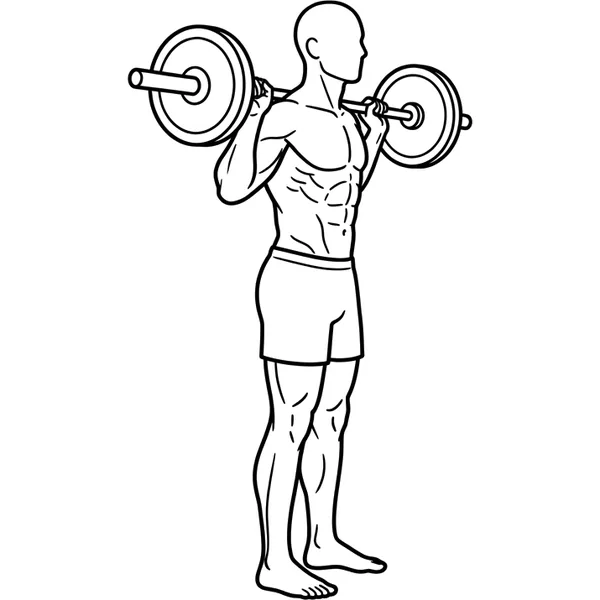
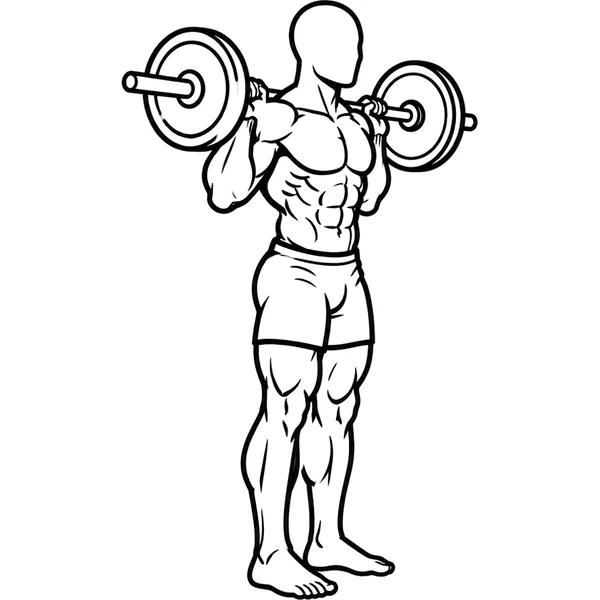
0.60.11: ocho dibujos mas con mas musculo, hechos con ChatGPT al llegar Gemini a su tope

Changed region(s): [[0.18, 0.0, 0.81, 1.0]]

diff --git a/web/sw.js b/web/sw.js
@@ -7,12 +7,12 @@
 // Solo se ocupa del CÓDIGO de la app. Los datos del usuario nunca pasan por
 // aquí: viven en el dispositivo (IndexedDB) y en su Google Drive.
 
-const VERSION = '0.60.10';
+const VERSION = '0.60.11';
 const CACHE = `entreno-${VERSION}`;
 // Las imágenes van en un almacén aparte que NO se borra al actualizar la app:
 // así se ven sin conexión aunque haya salido una versión nueva.
 // Si cambian las imágenes, se sube el número y los móviles bajan las nuevas.
-const CACHE_IMAGENES = 'entreno-imagenes-20';  // el mismo nombre en app.js (guardarImagenesParaSinConexion)
+const CACHE_IMAGENES = 'entreno-imagenes-21';  // el mismo nombre en app.js (guardarImagenesParaSinConexion)
 
 const ARCHIVOS = [
   './',

diff --git a/web/js/app.js b/web/js/app.js
@@ -236,7 +236,7 @@ async function guardarImagenesParaSinConexion() {
     const capas = Object.entries(MUSCULOS).flatMap(([clave, m]) => m.vistas.map((v) => archivoCapa(clave, v)));
     const cuerpo = ['imagenes/musculos/cuerpo-delante.svg', 'imagenes/musculos/cuerpo-detras.svg'];
     // El mismo nombre que CACHE_IMAGENES en sw.js: si no, el service worker lo borra.
-    const cache = await caches.open('entreno-imagenes-20');
+    const cache = await caches.open('entreno-imagenes-21');
     for (const ruta of [...cuerpo, ...capas, ...mios]) {
       if (!(await cache.match(ruta, { ignoreSearch: true }))) {
         const r = await fetch(ruta).catch(() => null);

diff --git a/web/js/version.js b/web/js/version.js
@@ -1,3 +1,3 @@
 // Versión del código de la app. Se sube en cada publicación y debe coincidir
 // con VERSION en sw.js, que es lo que hace que los móviles se actualicen.
-export const VERSION_APP = '0.60.10';
+export const VERSION_APP = '0.60.11';

diff --git a/imagenes-ia/cola.md b/imagenes-ia/cola.md
@@ -25,5 +25,5 @@ Conservar las imágenes originales; se pueden borrar las animaciones erróneas.
 - [ ] Puente de glúteo mejorado (comparar los tres). Remo al mentón nuevo con línea gruesa.
 - [ ] Remo en máquina y en polea (máquina que cambia, tamaño). Sentadilla hack (máquina, músculo).
 - [ ] Superman, crunch inverso, encogimientos: más músculo.
-- [ ] Todos los que eran muñeco: más músculo, cara lisa, trazo grueso. 52 de 132 hechos (sigue en el 52 de
-      cola-musculo.json, saltos al cajón). Animar los de cardio: Gemini no sabe alternar piernas.
+- [ ] Todos los que eran muñeco: más músculo, cara lisa, trazo grueso. 60 de 132 hechos (52 con Gemini, 8 con ChatGPT; sigue en el 60 de
+      cola-musculo.json, spinning). Si Gemini llega al tope, seguir con ChatGPT. Animar los de cardio: Gemini no sabe alternar piernas.

diff --git a/CLAUDE.md b/CLAUDE.md
@@ -1145,3 +1145,8 @@ fase), tras probar la A.
   trazo más grueso; 52 de 132 hechos (el límite diario de Gemini son unas 100 imágenes). La página de
   revisión tiene «Rehacer entero: alucinación de la IA». Cola de pendientes en `imagenes-ia/cola.md`.
   Almacén `entreno-imagenes-20`.
+- 0.60.11 (22-10-2026): regla de Dan: si Gemini llega al tope, se sigue con ChatGPT (cuenta gratuita: unas 8
+  imágenes y se reabre al día siguiente a la misma hora). ChatGPT edita el dibujo pegado en el mensaje y la
+  imagen se baja con un `<a download>` sobre el blob de `img[alt^="Imagen generada"]`. 8 mejorados más con
+  ChatGPT (saltos al cajón, senderismo y sentadillas); originales en `imagenes-ia/chatgpt/`. Almacén
+  `entreno-imagenes-21`.
